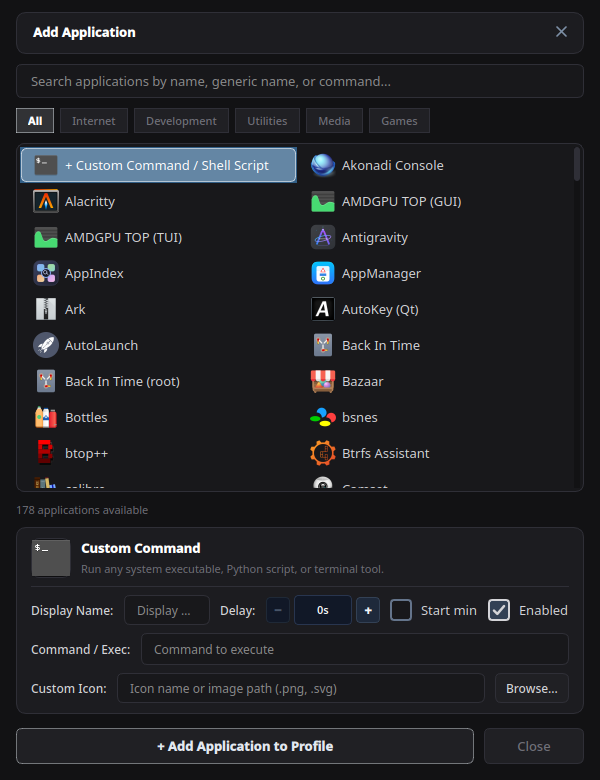
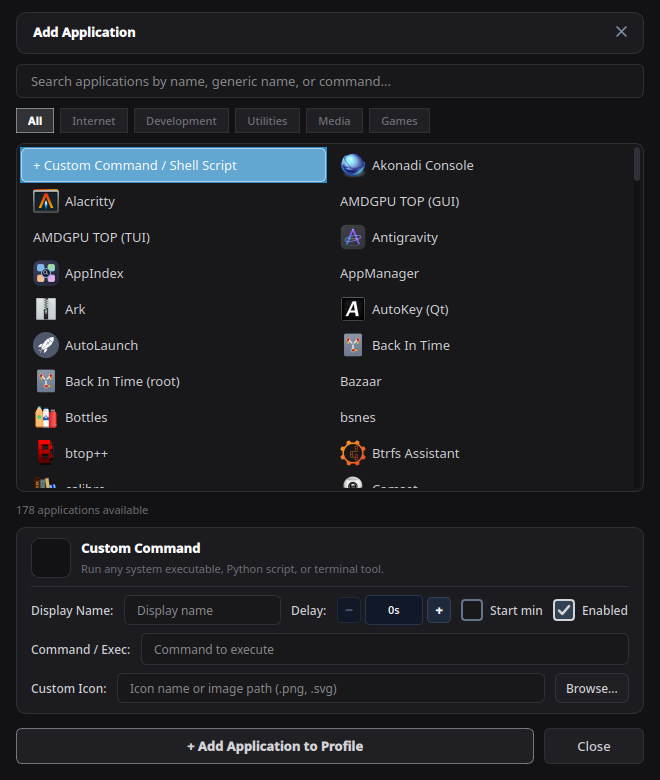
Match Add Application checkboxes and action buttons with Settings styling

diff --git a/ui/app_dialog.py b/ui/app_dialog.py
@@ -25,6 +25,7 @@ from config import AppEntry
 from desktop_scanner import DesktopAppInfo, DesktopScanner
 from ui.frameless import FramelessDialogBase
 from ui.icon_utils import resolve_icon
+from ui.themes import CHECKMARK_ICON_PATH, build_primary_btn_stylesheet, get_theme
 from ui.widgets import FlowLayout, StepperSpinBox
 
 
@@ -303,14 +304,46 @@ class AppDialog(FramelessDialogBase):
         row1_layout.addWidget(delay_lbl)
         row1_layout.addWidget(self.delay_spin)
 
+        chk_style = f"""
+            QCheckBox {{
+                color: #d4d4d8;
+                font-size: 12px;
+                font-weight: 500;
+                spacing: 7px;
+                background: transparent;
+                border: none;
+            }}
+            QCheckBox::indicator {{
+                width: 18px;
+                height: 18px;
+                border-radius: 4px;
+                border: 2px solid #64748b;
+                background-color: #18181b;
+            }}
+            QCheckBox::indicator:hover {{
+                border: 2px solid #e2e8f0;
+                background-color: #202024;
+            }}
+            QCheckBox::indicator:checked {{
+                border: 2px solid #d4d4d8;
+                background-color: #334155;
+                image: url("{CHECKMARK_ICON_PATH}");
+            }}
+            QCheckBox::indicator:checked:hover {{
+                border: 2px solid #d4d4d8;
+                background-color: #475569;
+                image: url("{CHECKMARK_ICON_PATH}");
+            }}
+        """
+
         self.minimized_check = QCheckBox("Start min")
         self.minimized_check.setChecked(False)
-        self.minimized_check.setStyleSheet("border: none; background: transparent;")
+        self.minimized_check.setStyleSheet(chk_style)
         row1_layout.addWidget(self.minimized_check)
 
         self.enabled_check = QCheckBox("Enabled")
         self.enabled_check.setChecked(True)
-        self.enabled_check.setStyleSheet("border: none; background: transparent;")
+        self.enabled_check.setStyleSheet(chk_style)
         row1_layout.addWidget(self.enabled_check)
 
         inspector_layout.addLayout(row1_layout)
@@ -404,80 +437,53 @@ class AppDialog(FramelessDialogBase):
             self.save_btn = QPushButton("Save Changes")
             self.save_btn.setFixedHeight(36)
             self.save_btn.setDefault(True)
+            theme = get_theme("modern_minimalist")
             self.save_btn.clicked.connect(self._on_save_and_close)
-            self.save_btn.setStyleSheet("""
-                QPushButton {
-                    background-color: #202024;
-                    color: #ffffff;
-                    font-weight: bold;
-                    font-size: 13px;
-                    border: 1px solid rgba(226, 232, 240, 0.45);
-                    border-radius: 6px;
-                }
-                QPushButton:hover {
-                    background-color: rgba(226, 232, 240, 0.15);
-                    border-color: #ffffff;
-                    color: #ffffff;
-                }
-            """)
+            self.save_btn.setStyleSheet(build_primary_btn_stylesheet(theme))
             btn_layout.addWidget(self.save_btn, stretch=1)
 
             self.cancel_btn = QPushButton("Cancel")
             self.cancel_btn.setFixedHeight(36)
             self.cancel_btn.setMinimumWidth(100)
-            self.cancel_btn.setStyleSheet("""
-                QPushButton {
-                    background-color: #202024;
-                    color: #71717a;
-                    border: 1px solid #2f2f37;
+            self.cancel_btn.setStyleSheet(f"""
+                QPushButton {{
+                    background-color: {theme.bg_card};
+                    color: #d4d4d8;
+                    border: 1px solid {theme.border_subtle};
                     border-radius: 6px;
                     font-size: 13px;
-                }
-                QPushButton:hover {
-                    background-color: #28282e;
-                    color: #ffffff;
-                }
+                }}
+                QPushButton:hover {{
+                    background-color: {theme.card_hover};
+                    color: #d4d4d8;
+                }}
             """)
             self.cancel_btn.clicked.connect(self.reject)
             btn_layout.addWidget(self.cancel_btn, stretch=0)
         else:
+            theme = get_theme("modern_minimalist")
             self.add_btn = QPushButton("+ Add Application to Profile")
             self.add_btn.setFixedHeight(36)
             self.add_btn.setDefault(True)
             self.add_btn.clicked.connect(self._on_add_clicked)
-            self.add_btn.setStyleSheet("""
-                QPushButton {
-                    background-color: #202024;
-                    color: #e2e8f0;
-                    border: 1px solid rgba(226, 232, 240, 0.45);
-                    border-radius: 6px;
-                    font-weight: bold;
-                    padding: 0 12px;
-                    font-size: 13px;
-                }
-                QPushButton:hover {
-                    background-color: rgba(226, 232, 240, 0.15);
-                    border-color: #ffffff;
-                    color: #ffffff;
-                }
-            """)
+            self.add_btn.setStyleSheet(build_primary_btn_stylesheet(theme))
             btn_layout.addWidget(self.add_btn, stretch=1)
 
             self.close_btn = QPushButton("Close")
             self.close_btn.setFixedHeight(36)
             self.close_btn.setMinimumWidth(100)
-            self.close_btn.setStyleSheet("""
-                QPushButton {
-                    background-color: #202024;
-                    color: #71717a;
-                    border: 1px solid #2f2f37;
+            self.close_btn.setStyleSheet(f"""
+                QPushButton {{
+                    background-color: {theme.bg_card};
+                    color: #d4d4d8;
+                    border: 1px solid {theme.border_subtle};
                     border-radius: 6px;
                     font-size: 13px;
-                }
-                QPushButton:hover {
-                    background-color: #28282e;
-                    color: #ffffff;
-                }
+                }}
+                QPushButton:hover {{
+                    background-color: {theme.card_hover};
+                    color: #d4d4d8;
+                }}
             """)
             self.close_btn.clicked.connect(self._on_close_clicked)
             btn_layout.addWidget(self.close_btn, stretch=0)
